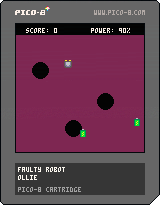
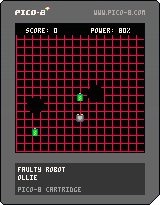
Game balancing

diff --git a/index.js b/index.js
@@ -66,14 +66,14 @@ var _cdpos=0; var _cartdat=[
 0,0,0,0,0,0,0,0,0,0,0,0,0,0,0,0,0,16,0,0,0,0,0,0,0,0,0,0,0,0,0,0,0,0,0,0,0,0,0,0,0,0,0,0,0,0,0,0,0,0,0,0,0,0,0,0,0,0,0,0,0,0,0,0,0,0,0,0,0,0,0,0,0,0,0,0,0,0,0,0,0,0,0,0,0,16,0,0,0,0,0,0,0,0,0,0,0,0,0,0,0,0,0,0,0,0,0,0,0,0,0,0,0,0,0,0,0,0,0,0,0,0,0,0,0,0,0,0,0,0,0,0,0,0,0,0,0,0,0,0,0,0,0,0,0,0,0,0,0,0,0,0,0,16,0,0,0,0,0,0,0,0,0,0,0,0,0,0,0,0,0,0,0,0,0,0,0,0,0,0,0,0,0,0,0,0,0,0,0,0,0,0,0,0,0,0,0,0,0,0,0,0,0,0,0,0,0,0,0,0,0,0,0,0,0,0,0,0,0,0,0,16,0,0,0,0,0,0,0,0,0,0,0,0,0,0,0,0,0,0,0,0,0,0,0,0,0,0,0,0,0,0,0,0,0,0,
 0,0,0,0,0,0,0,0,0,0,0,0,0,0,0,0,0,0,0,0,0,0,0,0,0,0,0,0,0,0,0,0,0,16,0,0,0,0,0,0,0,0,0,0,0,0,0,0,0,0,0,0,0,0,0,0,0,0,0,0,0,0,0,0,0,0,0,0,0,0,0,0,0,0,0,0,0,0,0,0,0,0,0,0,0,0,0,0,0,0,0,0,0,0,0,0,0,0,0,0,0,16,0,0,0,0,0,0,0,0,0,0,0,0,0,0,0,0,0,0,0,0,0,0,0,0,0,0,0,0,0,0,0,0,0,0,0,0,0,0,0,0,0,0,0,0,0,0,0,0,0,0,0,0,0,0,0,0,0,0,0,0,0,0,0,0,0,0,0,16,0,0,0,0,0,0,0,0,0,0,0,0,0,0,0,0,0,0,0,0,0,0,0,0,0,0,0,0,0,0,0,0,0,0,0,0,0,0,0,0,0,0,0,0,0,0,0,0,0,0,0,0,0,0,0,0,0,0,0,0,0,0,0,0,0,0,0,16,0,0,0,0,0,0,0,0,0,0,0,0,0,0,0,0,0,0,
 0,0,0,0,0,0,0,0,0,0,0,0,0,0,0,0,0,0,0,0,0,0,0,0,0,0,0,0,0,0,0,0,0,0,0,0,0,0,0,0,0,0,0,0,0,0,0,0,0,16,0,0,0,0,0,0,0,0,0,0,0,0,0,0,0,0,0,0,0,0,0,0,0,0,0,0,0,0,0,0,0,0,0,0,0,0,0,0,0,0,0,0,0,0,0,0,0,0,0,0,0,0,0,0,0,0,0,0,0,0,0,0,0,0,0,0,0,16,0,0,0,0,0,0,0,0,0,0,0,0,0,0,0,0,0,0,0,0,0,0,0,0,0,0,0,0,0,0,0,0,0,0,0,0,0,0,0,0,0,0,0,0,0,0,0,0,0,0,0,0,0,0,0,0,0,0,0,0,0,0,0,0,0,0,0,16,0,0,0,0,0,0,0,0,0,0,0,0,0,0,0,0,0,0,0,0,0,0,0,0,0,0,0,0,0,0,0,0,0,0,0,0,0,0,0,0,0,0,0,0,0,0,0,0,0,0,0,0,0,0,0,0,0,0,0,0,0,0,0,0,0,0,0,16,0,0,
-58,99,58,0,18,219,0,0,0,45,0,45,2,18,13,33,24,32,37,2,30,27,14,27,32,1,61,16,27,24,24,21,17,60,41,19,24,27,14,13,24,2,34,13,30,31,1,31,15,17,26,17,51,3,60,24,27,30,60,72,30,17,17,26,35,21,16,32,20,2,51,2,4,5,10,61,82,20,17,21,19,20,32,61,83,28,24,13,37,17,30,62,16,44,45,60,92,56,36,62,30,63,156,52,7,61,105,37,61,121,64,67,52,5,63,99,35,66,17,62,119,66,46,63,116,31,28,16,67,29,6,1,24,21,34,17,31,60,58,15,27,33,26,67,46,3,1,16,13,25,13,19,17,62,32,18,13,24,31,17,1,31,32,13,32,33,62,37,10,1,14,13,32,32,17,30,21,63,51,69,26,20,27,24,60,107,61,74,37,32,21,25,71,55,4,3,2,53,2,6,3,62,50,61,100,8,61,51,0,9,0,9,0,9,1,78,51,13,25,17,2,24,27,27,28,1,18,33,26,15,32,21,27,26,2,59,21,26,21,32,42,43,1,0,9,30,17,31,17,32,62,33,60,29,17,26,
-16,1,62,147,33,28,16,13,32,61,40,0,9,21,18,76,31,81,43,51,3,2,32,20,17,26,1,0,9,0,9,32,21,32,24,17,62,130,17,71,30,62,134,4,62,102,67,42,62,245,64,91,5,64,251,66,45,2,90,28,30,17,26,71,34,32,20,21,31,65,26,69,21,69,217,16,30,13,35,69,247,69,151,62,96,69,245,69,133,62,243,69,195,79,34,27,34,17,30,64,122,68,245,62,98,80,72,2,80,249,80,153,82,163,0,9,92,102,4,3,3,1,0,9,90,159,0,9,91,208,0,9,91,145,0,9,101,247,105,67,52,2,5,61,124,106,33,105,189,61,45,89,49,111,29,31,28,13,35,26,2,91,109,31,90,149,61,58,97,81,69,63,27,15,112,29,98,82,68,90,99,80,109,54,13,14,31,42,18,24,30,42,30,26,16,42,4,4,3,43,43,43,2,50,100,18,62,133,110,34,62,165,12,62,84,102,17,64,121,110,44,75,114,37,110,62,76,17,30,17,32,33,30,26,67,108,100,221,72,50,108,36,82,60,70,70,109,35,78,157,70,240,70,176,62,50,
-69,253,69,157,64,51,120,38,4,8,65,80,127,52,60,29,21,18,42,21,129,18,131,17,16,21,26,19,42,116,42,57,113,27,2,127,73,76,18,109,83,70,148,109,65,110,23,73,85,119,46,104,139,117,24,0,9,136,36,114,65,85,152,117,127,113,222,116,16,42,14,32,26,28,42,7,66,158,138,36,128,53,60,44,139,40,4,67,48,98,156,111,251,124,58,121,135,89,123,128,75,0,45,142,19,99,72,61,128,62,20,76,49,131,180,48,2,3,75,117,13,16,16,61,93,134,27,57,97,208,130,16,66,195,134,142,0,9,108,90,67,37,108,26,77,55,82,59,136,135,66,231,140,51,66,83,92,75,66,32,139,247,64,190,79,22,42,102,22,135,85,153,127,50,51,87,94,149,46,135,110,62,61,4,62,253,77,40,62,253,65,74,5,65,234,37,65,250,65,138,6,62,253,65,250,26,16,83,96,164,121,82,172,165,158,79,35,71,69,167,115,49,125,188,0,45,2,10,63,248,127,223,62,19,92,19,64,199,37,89,29,4,4,67,226,171,39,4,97,31,62,236,67,99,177,80,
-67,244,175,241,62,52,86,224,105,21,86,192,175,66,116,23,112,85,176,217,94,109,18,27,30,124,68,21,26,2,13,24,24,94,64,43,2,16,27,165,31,119,212,186,68,57,127,51,119,129,81,178,5,149,33,175,18,192,52,61,32,170,21,118,61,66,158,141,104,67,81,182,115,67,245,67,181,183,80,67,168,188,76,100,22,143,43,182,23,146,243,146,243,62,200,146,246,146,150,71,216,135,30,195,90,195,17,127,158,74,118,115,75,158,107,177,44,133,242,133,98,179,105,158,104,188,53,32,36,208,42,0,34,27,26,17,20,27,33,30,194,44,22,13,25,0,34,160,107,15,21,30,15,62,116,17,30,30,27,30,54,2,15,27,26,32,30,27,24,31,186,25,178,20,31,17,16,39,62,127,31,29,33,13,156,25,65,67,147,36,17,15,32,195,35,165,83,204,31,62,251,32,5,67,47,13,34,27,21,16,62,58,206,74,93,20,63,39,18,203,23,30,65,159,32,13,30,32,71,81,28,203,27,31,2,0,142,2,96,22,38,2,32,27,61,76,52,24,13,206,19,20,71,31,207,27,
-205,29,15,32,18,21,97,27,3,57,3,57,224,157,138,24,224,152,57,140,31,144,45,230,22,24,27,19,99,30,28,189,22,32,42,77,109,99,22,229,23,216,28,61,114,43,64,192,52,7,50,4,57,2,5,212,29,63,249,63,249,63,217,57,2,11,43,160,62,67,45,21,26,31,32,30,33,186,83,68,85,83,127,68,134,85,114,68,231,5,0,45,11,65,48,72,97,84,124,72,130,85,127,63,252,50,4,2,76,72,63,252,63,252,67,248,2,57,192,26,67,246,5,67,247,90,27,71,244,195,31,71,22,6,76,54,76,57,71,126,90,91,71,157,91,93,83,31,42,84,192,43,50,61,193,66,23,10,81,40,1,219,245,223,138,93,252,93,252,93,140,25,13,28,231,52,3,94,27,94,30,60,54,4,5,10,60,53,10,64,252,98,168,4,63,35,93,122,0,34,187,53,54,2,0,34,2,56,56,245,18,188,17,62,66,92,24,64,39,62,85,28,27,35,17,114,22,62,53,226,79,62,30,0,34,41,0,34,62,21,8,62,60,227,71,231,37,226,53,240,111,228,114,242,96,227,
-71,242,94,253,205,63,185,148,249,148,153,124,32,112,51,214,67,148,67,56,37,103,25,111,71,249,255,122,138,65,175,147,250,147,202,31,28,30,42,9,146,122,66,39,229,112,247,254,247,174,254,74,225,114,251,103,137,83,30,27,14,27,32,2,27,18,18,24,21,26,17,134,148,211,42,139,86,37,27,33,84,73,16,54,85,133,83,48,131,244,131,244,131,20,253,27,133,34,0,34,233,20,130,252,130,252,130,140,130,65,70,158,130,132,72,147,106,248,7,43,57,11,118,130,72,86,121,157,73,88,43,57,108,254,6,121,137,113,247,113,247,113,247,113,215,249,43,113,61,163,112,240,74,250,21,30,21,32,17,251,133,100,176,90,69,111,20,216,101,60,122,90,19,167,110,24,21,14,30,13,182,17,241,131,0,45,242,24,147,79,190,20,21,19,26,2,18,30,27,25,54,2,28,21,15,27,0,45,11,56,35,21,23,21,13,56,15,27,25,52,60,42,52,150,72,250,21,59,32,17,36,32,106,158,139,111,249,25,247,24,146,23,252,25,2,24,17,26,19,210,26,239,45,191,40,166,
-55,156,54,28,21,36,251,31,197,55,2,15,20,13,30,0,39,31,2,213,53,158,51,15,33,32,199,33,20,13,24,18,2,13,26,16,2,30,27,33,26,16,17,16,199,23,35,249,23,255,80,134,80,216,75,52,157,28,0,45,189,34,42,40,31,53,7,43,133,30,249,214,34,69,255,69,47,67,90,213,76,67,251,67,251,67,219,217,83,140,27,67,59,8,67,118,81,49,209,41,31,189,39,15,20,17,15,23,190,134,211,164,27,14,22,169,23,60,22,169,42,191,64,36,4,252,18,61,40,56,36,192,99,37,61,115,37,193,102,35,62,118,35,194,105,20,63,121,80,21,64,126,187,41,66,32,64,158,61,115,64,142,62,118,64,142,63,121,20,186,21,254,22,69,24,48,2,42,65,16,50,62,31,43,2,85,56,61,37,60,31,236,28,241,26,66,27,86,44,70,29,62,24,66,21,50,64,20,43,62,71,72,17,60,30,239,19,49,67,30,246,123,88,88,181,16,232,17,232,87,89,92,18,13,233,54,139,89,0,0,0,0,0,0,0,0,0,0,0,0,0,0,0,0,0,0,
-0,0,0,0,0,0,0,0,0,0,0,0,0,0,0,0,0,0,0,0,0,0,0,0,0,0,0,0,0,0,0,0,0,0,0,0,0,0,0,0,0,0,0,0,0,0,0,0,0,0,0,0,0,0,0,0,0,0,0,0,0,0,0,0,0,0,0,0,0,0,0,0,0,0,0,0,0,0,0,0,0,0,0,0,0,0,0,0,0,0,0,0,0,0,0,0,0,0,0,0,0,0,0,0,0,0,0,0,0,0,0,0,0,0,0,0,0,0,0,0,0,0,0,0,0,0,0,0,0,0,0,0,0,0,0,0,0,0,0,0,0,0,0,0,0,0,0,0,0,0,0,0,0,0,0,0,0,0,0,0,0,0,0,0,0,0,0,0,0,0,0,0,0,0,0,0,0,0,0,0,0,0,0,0,0,0,0,0,0,0,0,0,0,0,0,0,0,0,0,0,0,0,0,0,0,0,0,0,0,0,0,0,0,0,0,0,0,0,0,0,0,0,0,0,0,0,0,0,0,0,0,0,0,0,0,0,0,0,0,0,0,0,0,0,0,0,0,0,0,0,0,0,0,0,0,0,
+58,99,58,0,19,99,0,0,0,45,0,45,2,18,13,33,24,32,37,2,30,27,14,27,32,1,61,16,27,24,24,21,17,60,41,19,24,27,14,13,24,2,34,13,30,31,1,31,15,17,26,17,51,3,60,24,27,30,60,72,30,17,17,26,35,21,16,32,20,2,51,2,4,5,10,61,82,20,17,21,19,20,32,61,83,28,24,13,37,17,30,62,16,44,45,60,92,56,36,62,30,63,156,52,7,61,105,37,61,121,64,67,52,5,63,99,35,66,17,62,119,66,46,63,116,31,28,16,67,29,6,1,24,21,34,17,31,60,58,15,27,33,26,67,46,3,1,16,13,25,13,19,17,62,32,18,13,24,31,17,1,31,32,13,32,33,62,37,10,1,14,13,32,32,17,30,21,63,51,69,26,20,27,24,60,107,61,74,37,32,21,25,71,55,8,2,53,2,6,3,62,49,61,99,6,61,51,0,9,0,9,1,1,31,28,13,35,26,61,215,1,79,55,13,25,17,2,24,27,27,28,1,18,33,26,15,32,21,27,26,2,59,21,26,21,32,42,43,1,0,9,30,17,31,17,32,
+62,33,60,29,17,26,16,1,62,147,33,28,16,13,32,61,40,0,9,21,18,78,19,82,47,51,3,2,32,20,17,26,1,0,9,0,9,32,21,32,24,17,62,130,17,73,18,62,134,4,62,102,67,42,62,245,64,91,5,64,251,66,45,2,92,16,30,17,26,71,34,32,20,21,31,65,26,69,21,69,217,16,30,13,35,69,247,69,151,62,96,69,245,69,133,62,243,69,195,79,34,27,34,17,30,64,122,68,245,62,98,80,72,2,80,249,80,153,82,163,0,9,93,106,4,3,3,1,0,9,92,147,0,9,92,212,0,9,92,149,0,9,102,251,106,71,52,2,5,61,124,107,37,107,177,61,45,89,49,113,17,93,58,2,91,109,31,90,149,95,52,98,85,69,63,27,15,114,17,99,86,68,90,100,84,110,58,13,14,31,42,18,24,30,42,30,26,16,42,4,4,3,43,43,43,2,50,72,28,62,133,111,38,62,165,12,62,84,103,22,64,121,112,32,75,114,37,112,50,76,17,30,17,32,33,30,26,67,108,100,221,105,60,109,40,82,60,70,70,110,39,78,157,70,240,70,
+176,62,50,69,253,69,157,64,51,121,42,4,8,65,80,128,56,60,109,113,189,4,116,71,109,24,42,21,132,16,133,31,16,21,26,19,42,119,40,57,0,9,0,9,0,9,2,130,71,77,28,110,93,71,158,110,75,112,17,74,95,122,44,106,133,63,29,0,9,139,34,115,75,87,146,119,121,115,216,117,26,42,14,32,26,28,42,7,66,158,141,34,131,51,60,44,142,38,4,67,48,100,150,113,245,126,52,123,129,91,117,131,73,0,45,145,17,101,66,61,128,62,20,76,49,134,178,48,2,3,75,117,13,16,16,61,93,137,25,57,98,218,131,26,66,195,137,124,0,9,110,83,67,36,110,19,77,54,82,58,139,133,66,230,143,48,66,82,94,68,65,47,142,245,64,190,79,21,42,103,31,136,94,156,124,50,51,87,93,152,43,137,103,62,61,4,62,253,77,39,62,253,65,74,5,65,234,37,65,250,65,138,6,62,253,65,250,26,16,82,111,167,118,82,171,168,155,79,35,71,69,170,112,49,127,181,0,45,2,10,63,248,129,216,62,19,92,18,64,199,37,89,28,4,4,67,
+226,174,36,4,97,30,62,236,67,99,179,93,67,244,177,254,62,52,86,224,105,20,86,192,177,79,118,16,112,84,179,214,94,109,18,27,30,125,77,21,26,2,13,24,24,94,64,43,2,16,27,93,86,120,173,105,75,107,17,120,237,190,75,57,130,54,43,2,13,26,16,131,48,124,168,106,173,84,180,5,153,44,124,24,198,51,61,32,175,16,121,62,70,144,146,99,70,83,188,114,70,87,68,253,68,77,188,95,129,138,110,110,103,24,148,38,67,53,123,46,61,32,128,62,151,253,151,253,70,76,152,240,152,240,133,61,114,255,114,127,74,161,141,24,204,82,203,25,133,152,76,127,121,70,165,111,185,32,138,252,138,108,186,109,165,108,195,57,32,36,217,34,0,34,27,26,17,20,27,33,30,202,32,22,13,25,0,34,167,111,15,21,30,15,62,116,17,30,30,27,30,54,2,15,27,26,32,30,27,24,31,193,29,185,24,31,17,16,39,62,127,31,29,33,13,163,29,65,67,152,46,17,15,32,202,39,172,87,213,23,62,251,32,5,67,47,13,34,27,21,16,62,58,215,66,98,
+31,63,39,18,210,27,30,65,159,32,13,30,32,71,81,28,210,31,31,2,0,142,2,102,17,38,2,32,27,61,76,52,24,13,213,23,20,71,31,216,21,213,17,15,32,18,21,103,22,3,57,3,57,233,149,144,18,233,144,57,146,25,150,39,238,30,24,27,19,105,25,28,196,26,32,42,77,109,103,23,237,31,225,20,61,114,43,64,192,52,7,50,4,57,2,5,220,17,63,249,63,249,63,217,57,2,11,43,166,56,67,45,21,26,31,32,30,33,193,87,68,85,83,127,68,134,85,114,68,231,5,0,45,11,65,48,72,97,84,124,72,130,85,127,63,252,50,4,2,76,72,63,252,63,252,67,248,2,57,199,30,67,246,5,67,247,90,27,71,244,203,19,71,22,6,76,54,76,57,71,126,90,91,71,157,91,93,83,31,42,84,192,43,50,61,193,66,23,10,81,40,1,226,249,230,142,93,252,93,252,93,140,25,13,28,238,56,3,94,27,94,30,60,54,4,5,10,60,53,10,64,252,98,168,4,63,35,93,122,0,34,192,63,54,2,0,34,2,56,56,252,22,193,27,62,66,
+92,24,64,39,62,85,28,27,35,17,114,22,62,53,234,67,62,30,0,34,41,0,34,62,21,8,62,60,234,75,238,41,233,57,248,99,235,118,249,100,234,75,250,82,251,200,63,185,154,244,154,148,124,32,112,51,221,71,152,68,56,37,103,25,111,71,248,254,122,138,65,175,150,243,150,195,31,28,30,42,9,149,115,66,39,236,116,210,242,210,98,27,131,28,137,65,232,118,61,103,137,83,30,27,14,27,32,2,27,18,18,24,21,26,17,134,148,217,36,139,86,37,27,33,84,73,16,54,85,133,83,48,131,244,131,244,131,20,220,25,133,34,0,34,240,24,130,252,130,252,130,140,130,65,70,158,130,132,72,147,106,248,7,43,57,11,118,130,72,86,121,157,73,88,43,57,108,254,6,121,137,113,247,113,247,113,247,113,215,241,46,113,61,163,112,246,68,229,23,30,21,32,17,242,128,100,176,90,69,111,20,222,96,60,122,90,19,167,110,24,21,14,30,13,184,26,246,141,0,45,248,18,147,79,195,31,21,19,26,2,18,30,27,25,54,2,28,21,15,27,0,45,11,56,35,21,
+23,21,13,56,15,27,25,52,60,42,52,150,72,195,18,59,32,17,36,32,106,158,139,111,250,22,253,18,146,23,197,22,2,24,17,26,19,216,21,245,39,194,33,166,55,156,54,28,21,36,230,29,203,50,2,15,20,13,30,0,39,31,2,219,48,158,51,15,33,32,204,44,20,13,24,18,200,58,30,27,33,26,16,17,16,205,18,35,246,26,171,28,33,30,26,134,96,222,70,52,157,28,0,45,190,44,42,40,31,53,7,43,133,30,255,208,34,69,255,69,47,67,90,219,71,67,251,67,251,67,219,222,94,140,27,67,59,8,67,118,81,49,213,42,31,189,39,15,20,17,15,23,190,134,215,165,27,14,22,169,23,60,22,169,42,191,64,36,4,252,16,61,40,56,36,192,99,37,61,115,37,193,102,35,62,118,35,194,105,20,63,121,80,21,64,126,187,41,66,32,64,158,61,115,64,142,62,118,64,142,63,121,20,186,21,254,23,69,24,48,2,42,65,16,50,62,31,43,2,226,50,61,37,60,31,242,23,247,21,66,27,227,38,70,29,62,24,66,21,50,64,20,228,73,42,72,
+17,60,30,244,30,49,67,30,252,118,88,88,181,16,237,28,238,82,89,92,18,13,239,49,139,89,0,0,0,0,0,0,0,0,0,0,0,0,0,0,0,0,0,0,0,0,0,0,0,0,0,0,0,0,0,0,0,0,0,0,0,0,0,0,0,0,0,0,0,0,0,0,0,0,0,0,0,0,0,0,0,0,0,0,0,0,0,0,0,0,0,0,0,0,0,0,0,0,0,0,0,0,0,0,0,0,0,0,0,0,0,0,0,0,0,0,0,0,0,0,0,0,0,0,0,0,0,0,0,0,0,0,0,0,0,0,0,0,0,0,0,0,0,0,0,0,0,0,0,0,0,0,0,0,0,0,0,0,0,0,0,0,0,0,0,0,0,0,0,0,0,0,0,0,0,0,0,0,0,0,0,0,0,0,0,0,0,0,0,0,0,0,0,0,0,0,0,0,0,0,0,0,0,0,0,0,0,0,0,0,0,0,0,0,0,0,0,0,0,0,0,0,0,0,0,0,0,0,0,0,0,0,0,0,0,0,0,0,0,0,0,0,0,0,0,0,0,0,0,0,0,0,0,0,0,0,
 0,0,0,0,0,0,0,0,0,0,0,0,0,0,0,0,0,0,0,0,0,0,0,0,0,0,0,0,0,0,0,0,0,0,0,0,0,0,0,0,0,0,0,0,0,0,0,0,0,0,0,0,0,0,0,0,0,0,0,0,0,0,0,0,0,0,0,0,0,0,0,0,0,0,0,0,0,0,0,0,0,0,0,0,0,0,0,0,0,0,0,0,0,0,0,0,0,0,0,0,0,0,0,0,0,0,0,0,0,0,0,0,0,0,0,0,0,0,0,0,0,0,0,0,0,0,0,0,0,0,0,0,0,0,0,0,0,0,0,0,0,0,0,0,0,0,0,0,0,0,0,0,0,0,0,0,0,0,0,0,0,0,0,0,0,0,0,0,0,0,0,0,0,0,0,0,0,0,0,0,0,0,0,0,0,0,0,0,0,0,0,0,0,0,0,0,0,0,0,0,0,0,0,0,0,0,0,0,0,0,0,0,0,0,0,0,0,0,0,0,0,0,0,0,0,0,0,0,0,0,0,0,0,0,0,0,0,0,0,0,0,0,0,0,0,0,0,0,0,0,0,0,0,0,0,0,
 0,0,0,0,0,0,0,0,0,0,0,0,0,0,0,0,0,0,0,0,0,0,0,0,0,0,0,0,0,0,0,0,0,0,0,0,0,0,0,0,0,0,0,0,0,0,0,0,0,0,0,0,0,0,0,0,0,0,0,0,0,0,0,0,0,0,0,0,0,0,0,0,0,0,0,0,0,0,0,0,0,0,0,0,0,0,0,0,0,0,0,0,0,0,0,0,0,0,0,0,0,0,0,0,0,0,0,0,0,0,0,0,0,0,0,0,0,0,0,0,0,0,0,0,0,0,0,0,0,0,0,0,0,0,0,0,0,0,0,0,0,0,0,0,0,0,0,0,0,0,0,0,0,0,0,0,0,0,0,0,0,0,0,0,0,0,0,0,0,0,0,0,0,0,0,0,0,0,0,0,0,0,0,0,0,0,0,0,0,0,0,0,0,0,0,0,0,0,0,0,0,0,0,0,0,0,0,0,0,0,0,0,0,0,0,0,0,0,0,0,0,0,0,0,0,0,0,0,0,0,0,0,0,0,0,0,0,0,0,0,0,0,0,0,0,0,0,0,0,0,0,0,0,0,0,0,
 0,0,0,0,0,0,0,0,0,0,0,0,0,0,0,0,0,0,0,0,0,0,0,0,0,0,0,0,0,0,0,0,0,0,0,0,0,0,0,0,0,0,0,0,0,0,0,0,0,0,0,0,0,0,0,0,0,0,0,0,0,0,0,0,0,0,0,0,0,0,0,0,0,0,0,0,0,0,0,0,0,0,0,0,0,0,0,0,0,0,0,0,0,0,0,0,0,0,0,0,0,0,0,0,0,0,0,0,0,0,0,0,0,0,0,0,0,0,0,0,0,0,0,0,0,0,0,0,0,0,0,0,0,0,0,0,0,0,0,0,0,0,0,0,0,0,0,0,0,0,0,0,0,0,0,0,0,0,0,0,0,0,0,0,0,0,0,0,0,0,0,0,0,0,0,0,0,0,0,0,0,0,0,0,0,0,0,0,0,0,0,0,0,0,0,0,0,0,0,0,0,0,0,0,0,0,0,0,0,0,0,0,0,0,0,0,0,0,0,0,0,0,0,0,0,0,0,0,0,0,0,0,0,0,0,0,0,0,0,0,0,0,0,0,0,0,0,0,0,0,0,0,0,0,0,0,
